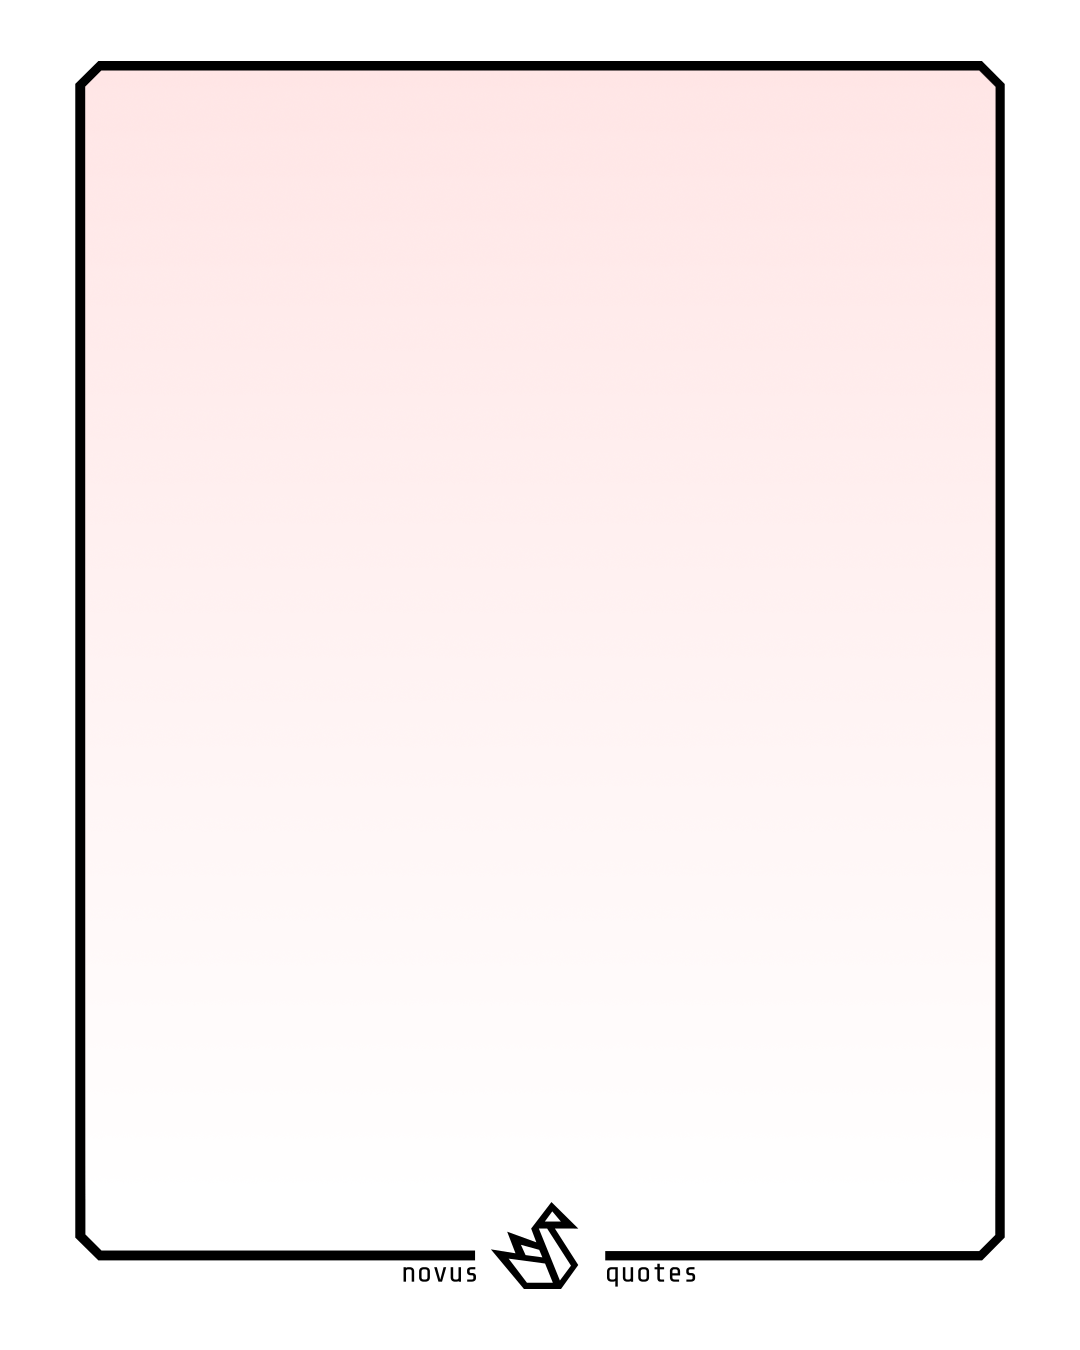
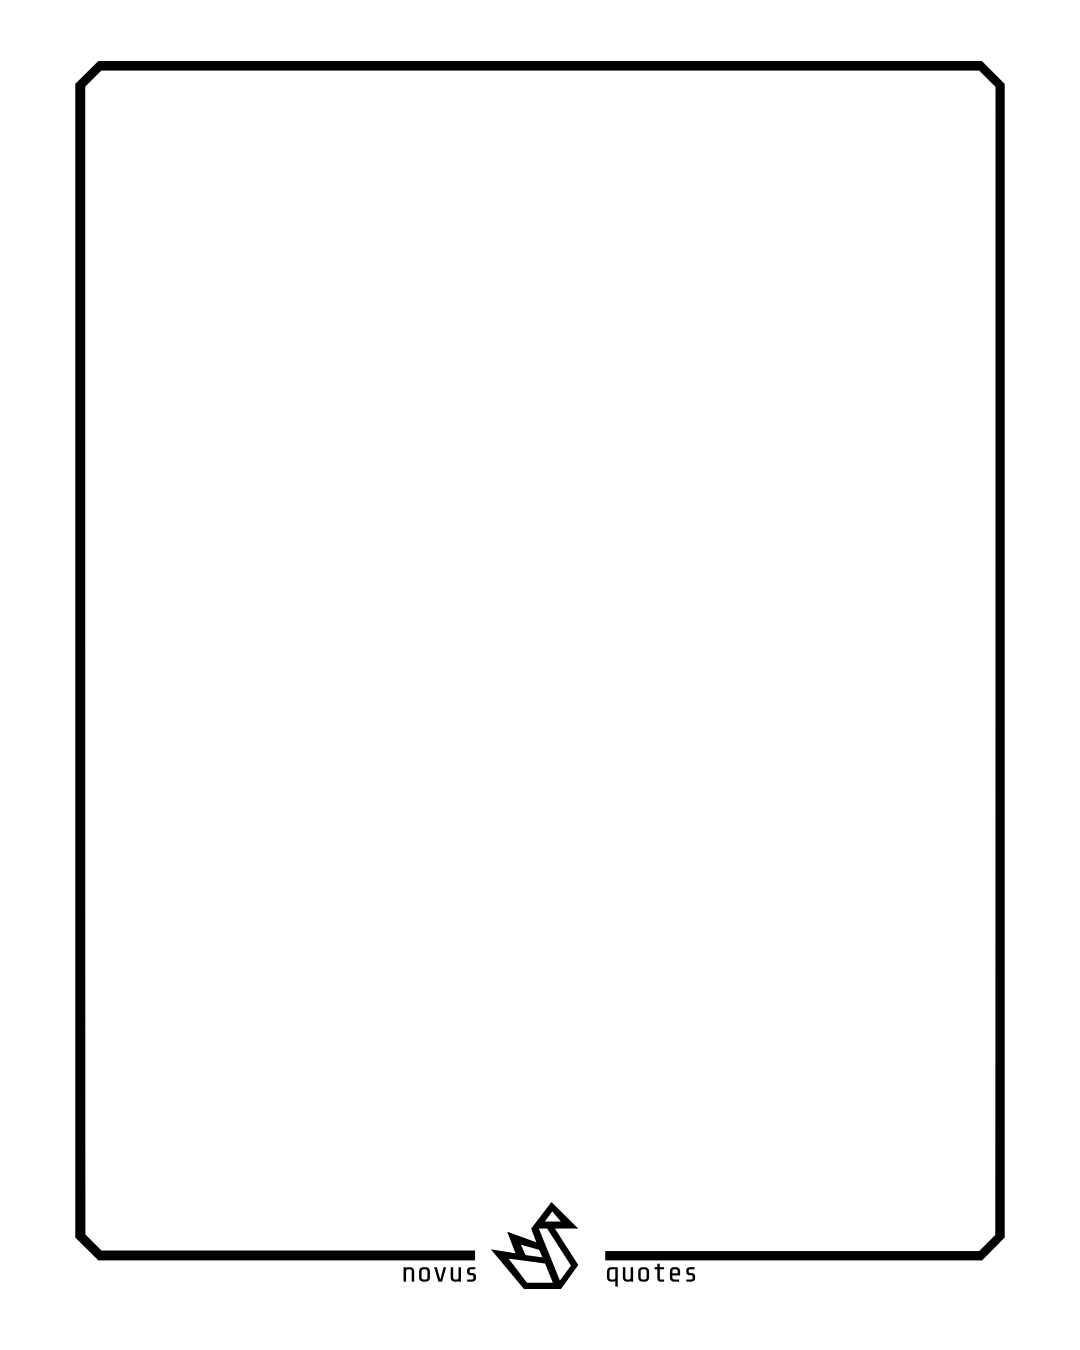
image is ready

Changed region(s): [[0.0611, 0.0311, 0.9472, 0.1244]]

diff --git a/postImage.py b/postImage.py
@@ -1,5 +1,6 @@
 # -*- coding: utf-8 -*-
 import requests, json, textwrap, time, os, glob, random
+from random import randint
 from PIL import Image, ImageDraw, ImageFont, ImageStat, ImageFilter, ImageEnhance
 import nltk
 from resizeimage import resizeimage
@@ -51,29 +52,19 @@ if len(nouns) != 0:
         if r.status_code == 200:
             break
 
-if len(nouns) != 0 and r.status_code == 200:
-    image = requests.get(URL).content
-    with open('latest.png', 'wb') as handler:
-        handler.write(image)
-
-    with open('latest.png', 'r+b') as f:
-        with Image.open(f) as image:
-            cover = resizeimage.resize_cover(image, [1080, 1350])
-            cover.save('latest.png', "PNG")
-else:
+if len(nouns) == 0 or r.status_code != 200:
     print ("< Using Default >")
-    image = requests.get("https://picsum.photos/" + str(image_size_x) + "/" + str(image_size_y) + "/?blur=" + str(blur)).content
-    with open('latest.png', 'wb') as handler:
-        handler.write(image)
-    with open('latest.png', 'r+b') as f:
-        with Image.open(f) as image:
-            cover = resizeimage.resize_cover(image, [1080, 1350])
-            cover.save('latest.png', "PNG")
-
-background = Image.open("latest.png")
-background = ImageEnhance.Contrast(background).enhance(0.6)
-background = background.filter(ImageFilter.GaussianBlur(radius = 5))
-background.save("latest.png", "PNG")
+    URL = "https://source.unsplash.com/random/1080x1350"
+image = requests.get(URL).content
+with open('latest.png', 'wb') as handler:
+    handler.write(image)
+with open('latest.png', 'r+b') as f:
+    with Image.open(f) as image:
+        cover = resizeimage.resize_cover(image, [1080, 1350])
+        cover.save('latest.png', "PNG")
+background = cover
+background = ImageEnhance.Contrast(background).enhance(random.uniform(0.7, 1.0))
+background = background.filter(ImageFilter.GaussianBlur(radius = randint(0, 5)))
 
 crop_rectangle = (200, 200, image_size_x - 200, image_size_y - 400)
 cropped_im = background.crop(crop_rectangle)
@@ -86,13 +77,11 @@ if int(brightness(cropped_im)) < 120:
 foreground = Image.open(template)
 
 background.paste(foreground, (0, 0), foreground)
-background.save("combine.png", "PNG")
 img = background
 draw = ImageDraw.Draw(img)
 font_name = random.choice(glob.glob("./fonts/*.ttf"))
-print ("font: ", font_name)
+print ("font: " + font_name)
 font = ImageFont.truetype(font_name, size=45)
-exit(0)
 
 para = textwrap.wrap(text, width=35)
 current_h, pad = 200, 10
@@ -103,13 +92,16 @@ for line in para:
 if author:
     current_h += h + pad
     para = textwrap.wrap(author, width=25)
-    current_h, pad = 200, 10
     for line in para:
         w, h = draw.textsize(line, font=font)
         draw.text(((image_size_x - w) / 2, current_h), line + ".", font=font, fill=color)
         current_h += h + pad
 
 img.save("ready.png", "PNG")
+if os.path.exists("latest.png"):
+    os.remove("latest.png")
+img.show()
+exit(0)
 
 photo_path = "ready.png"
 caption = "#inspiration #inspirationalquotes #inspirational #inspirationalquote #inspirations #inspirationoftheday \
